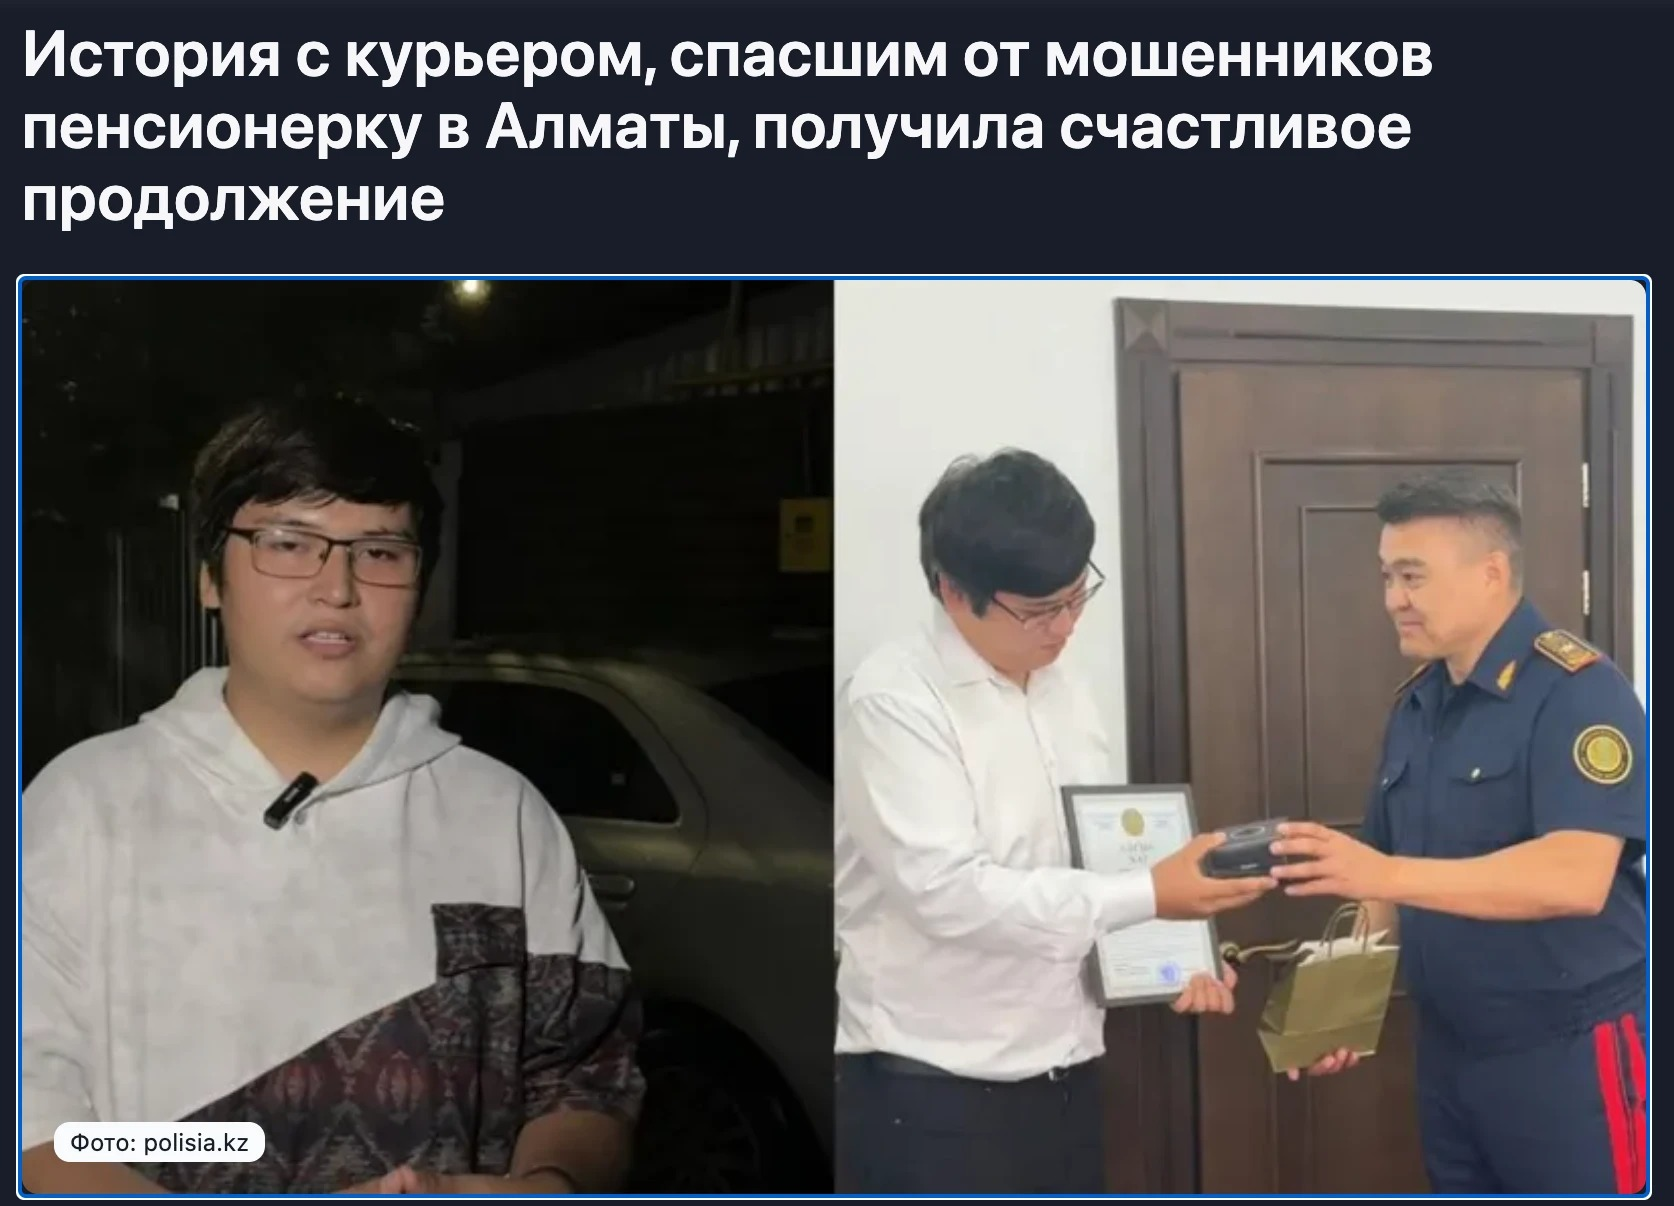
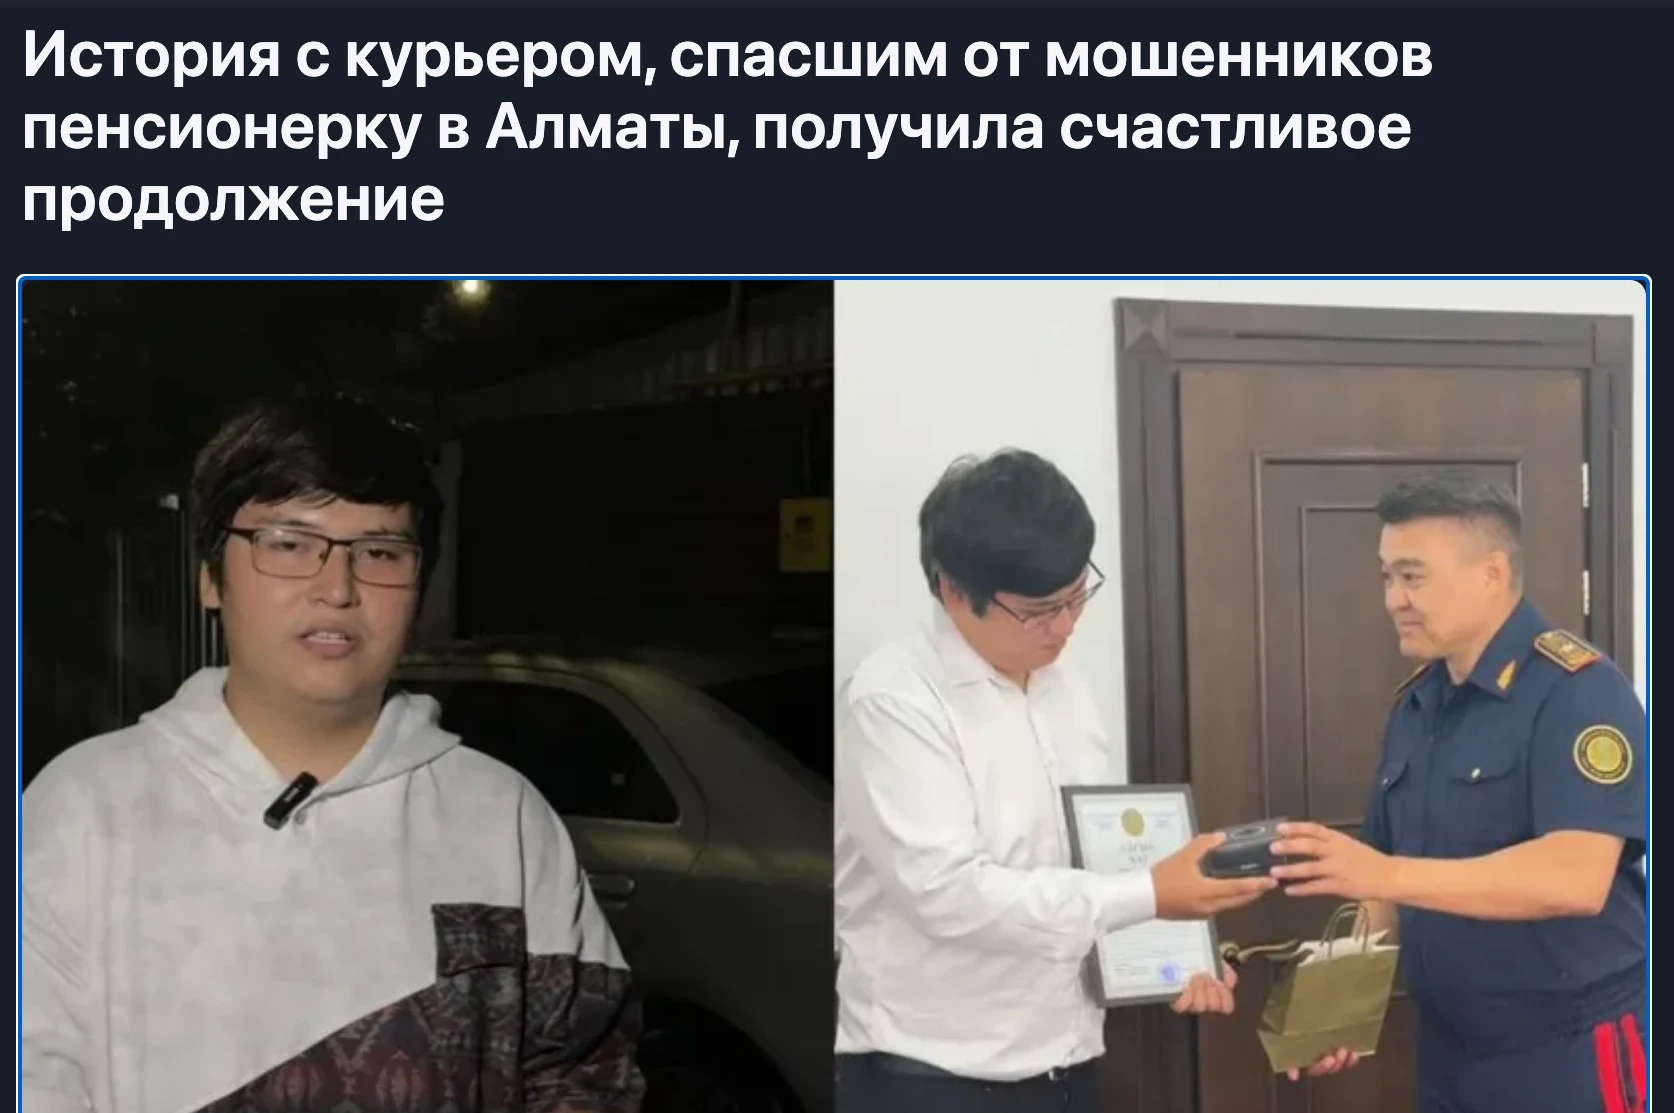
Courier heroes ep01 v7: short hook flash, stronger phone push-in, courier nod, final layout with bigger mascot and follow button, hero caption
Claude-Session: https://claude.ai/code/session_015PP6DdKJ123PbBgShdbRym

diff --git a/projects/courier-heroes/ep01/hyperframes/index.html b/projects/courier-heroes/ep01/hyperframes/index.html
@@ -110,17 +110,17 @@ svg{display:block;overflow:visible}
 
   <!-- S8 · the real hero + thanks -->
   <div id="s8" class="scene" style="background:var(--paper)">
-    <div id="photo" class="abs" style="left:60px;top:100px;width:960px;height:700px;background:#1B1F2A;border-radius:28px;box-shadow:0 18px 50px rgba(0,0,0,.22);padding:16px;box-sizing:border-box">
-      <div class="abs" style="left:16px;top:16px;width:928px;height:628px;border-radius:16px;overflow:hidden;background:url(assets/news1.jpg) center top/cover"></div>
-      <div class="abs" style="left:0;top:652px;width:960px;text-align:center;font-weight:500;font-size:24px;color:#B9BDC9"><span data-k="end.credit">Фото: polisia.kz · Источник: zakon.kz</span></div>
+    <div id="photo" class="abs" style="left:60px;top:100px;width:960px;height:640px;background:#1B1F2A;border-radius:28px;box-shadow:0 18px 50px rgba(0,0,0,.22);padding:16px;box-sizing:border-box">
+      <div class="abs" style="left:16px;top:16px;width:928px;height:568px;border-radius:16px;overflow:hidden;background:url(assets/news1.jpg) center top/cover"></div>
+      <div class="abs" style="left:0;top:594px;width:960px;text-align:center;font-weight:500;font-size:24px;color:#D7DAE3"><span data-k="end.credit">Фото: polisia.kz · Источник: zakon.kz</span></div>
     </div>
     <div id="real" class="abs" style="display:none;left:0;top:830px;width:1080px;text-align:center"><div class="chip" style="background:#E4DED2;color:#5E5850;font-size:28px;height:60px;line-height:60px"><span data-k="end.cap">Нартай Есимханов, курьер</span> · <span data-k="end.real">реальная история</span></div></div>
-    <div id="thanks" class="card" style="left:90px;top:826px;width:900px;height:104px;display:flex;align-items:center;justify-content:center;gap:26px;background:var(--ink);color:#fff">
+    <div id="thanks" class="card" style="left:90px;top:766px;width:900px;height:104px;display:flex;align-items:center;justify-content:center;gap:26px;background:var(--ink);color:#fff">
       <div style="font-weight:800;font-size:50px;white-space:nowrap"><span data-k="end.thanks">Спасибо таким курьерам!</span></div>
     </div>
-    <div id="rubric" class="abs" style="left:0;top:946px;width:1080px;display:flex;justify-content:center;align-items:center;gap:14px;font-weight:800;font-size:30px;color:#5E5850"><img src="assets/ge_mark.svg" style="width:44px;height:44px"/><span>Рубрика «Курьер — батыр» · Green Express</span></div>
-    <div id="note8" class="abs" style="left:0;top:996px;width:1080px;text-align:center;font-weight:800;font-size:27px;color:#4A443C">Нартай — не сотрудник Green Express. Мы гордимся такими курьерами</div>
-    <div id="follow" class="abs" style="left:0;top:1046px;width:1080px;text-align:center"><div class="chip" style="background:var(--coral);color:#fff;font-size:30px;padding:0 26px">🔔 <span data-k="end.follow">Подпишись: больше историй о курьерах-героях</span></div></div>
+    <div id="rubric" class="abs" style="left:0;top:886px;width:1080px;display:flex;justify-content:center;align-items:center;gap:14px;font-weight:800;font-size:30px;color:#5E5850"><img src="assets/ge_mark.svg" style="width:44px;height:44px"/><span>Рубрика «Курьер — батыр» · Green Express</span></div>
+    <div id="note8" class="abs" style="left:0;top:936px;width:1080px;text-align:center;font-weight:800;font-size:27px;color:#4A443C">Нартай — не сотрудник Green Express. Мы гордимся такими курьерами</div>
+    <div id="follow" class="abs" style="left:0;top:988px;width:1080px;text-align:center"><div class="chip" style="background:var(--coral);color:#fff;font-size:34px;height:90px;line-height:90px;border-radius:45px;padding:0 30px">🔔 <span data-k="end.follow">Подпишись: больше историй о курьерах-героях</span></div></div>
     <svg id="s8fg" class="abs" style="left:0;top:0" width="1080" height="1920"></svg>
   </div>
 
@@ -256,7 +256,7 @@ el($('#s7fg'),`<g id="ring7"><circle r="60" fill="none" stroke="#FFFFFF" stroke-
   <g id="no7"><circle r="70" fill="#FF3B30"/><path d="M-28 -28 L28 28 M28 -28 L-28 28" stroke="#fff" stroke-width="16" stroke-linecap="round"/></g>`);
 gsap.set('#ring7',{x:740,y:1000}); gsap.set('#no7',{x:880,y:820,scale:0});
 // S8 · hero peeks next to the real photo
-place($('#s8fg'),mascot({id:'c8',...HERO,act:'wave',face:'happy'}),'c8',540,1440,.46);
+place($('#s8fg'),mascot({id:'c8',...HERO,act:'wave',face:'happy'}),'c8',540,1415,.5);
 
 // headlines wider than the safe area shrink to fit
 const tw=e=>{let l=1e9,r=-1e9;e.querySelectorAll('span').forEach(sp=>{const b=sp.getBoundingClientRect();if(b.width){l=Math.min(l,b.left);r=Math.max(r,b.right);}});return r>l?r-l:0;};
@@ -286,9 +286,9 @@ const camS1=(sc,px,py,sx,sy)=>({scale:sc,x:sx-px*sc,y:sy-py*sc,transformOrigin:'
 gsap.set('#cam1',camS1(2.4,505,1380,540,1180));
 tl.to('#cam1',{...camS1(2.55,505,1380,540,1180),duration:.85,ease:'sine.out'},0);
 tl.to('#cam1',{...camS1(1.45,555,1300,540,1140),duration:.6,ease:'power3.inOut'},.85);
-tl.fromTo('#flash',{opacity:.9},{opacity:0,duration:.35,ease:'power2.out',immediateRender:false},.16);
+tl.fromTo('#flash',{opacity:.75},{opacity:0,duration:.1,ease:'power1.out',immediateRender:false},.16);
 tl.to('#s1',{x:18,y:-8,duration:.035,yoyo:true,repeat:7,ease:'none'},.16);
-tl.fromTo('#amt',{scale:1.6},{scale:1,transformOrigin:'50% 60%',duration:.4,ease:'back.out(3)',immediateRender:false},.16);
+tl.fromTo('#amt',{scale:1.45},{scale:1,transformOrigin:'50% 60%',duration:.35,ease:'back.out(3)',immediateRender:false},.18);
 tl.fromTo('#pk1-cash',{y:0},{y:-22,duration:.18,yoyo:true,repeat:3,ease:'sine.inOut',immediateRender:false},.1);
 tl.from('#punch',{yPercent:120,duration:.4,ease:E.back},1.05);
 // idle breathing so nobody freezes
@@ -315,7 +315,7 @@ reveal(['#t2a','#t2b'],ST[1]+.1);
 gsap.set('#phone2',{scale:1.1,transformOrigin:'50% 0%'});
 tl.from('#phone2',{y:300,opacity:0,duration:.45,ease:E.o3},ST[1]+.15);
 tl.to('#phone2',{x:'+=5',duration:.04,yoyo:true,repeat:19,ease:'none'},ST[1]+.5);
-tl.to('#phone2',{scale:1.18,duration:2.6,ease:'sine.inOut'},ST[1]+1.2);
+tl.to('#phone2',{scale:1.26,duration:3.0,ease:'sine.inOut'},ST[1]+.7);
 tl.to('#caller',{scaleY:1.06,transformOrigin:'50% 100%',duration:.12,yoyo:true,repeat:15,ease:'sine.inOut'},ST[1]+.8);
 tl.to('#phone2',{rotation:2.5,duration:.06,yoyo:true,repeat:13,ease:'none'},ST[1]+.5);
 tl.to('#btnYes2',{scale:1.15,transformOrigin:'50% 50%',duration:.3,yoyo:true,repeat:3,ease:'sine.inOut'},ST[1]+.5);
@@ -368,7 +368,7 @@ reveal(['#t5a','#t5b'],ST[4]+.1);
 tl.from('#call102',{scale:0,transformOrigin:'50% 50%',duration:.35,ease:E.b2},ST[4]+.2);
 tl.to('#call102',{scale:1.1,transformOrigin:'50% 50%',duration:.2,yoyo:true,repeat:3,ease:'sine.inOut'},ST[4]+.6);
 tl.from(['#p5-pos','#g5-pos'],{y:'+=500',duration:.45,ease:E.o3,stagger:.1},ST[4]+.3);
-tl.to('#pk5-pos',{x:790,duration:.55,ease:'power1.inOut'},ST[4]+1.5); tl.to('#pk5-pos',{y:1210,duration:.27,ease:'power2.out',yoyo:true,repeat:1},ST[4]+1.5); tl.to('#c5-sq',{rotation:5,transformOrigin:'50% 100%',duration:.18,yoyo:true,repeat:1},ST[4]+2.2);
+tl.to('#pk5-pos',{x:790,duration:.55,ease:'power1.inOut'},ST[4]+1.5); tl.to('#pk5-pos',{y:1210,duration:.27,ease:'power2.out',yoyo:true,repeat:1},ST[4]+1.5); tl.to('#c5-sq',{rotation:-7,transformOrigin:'50% 100%',duration:.15,yoyo:true,repeat:3,ease:'sine.inOut'},ST[4]+2.0);
 tl.to('#g5-sq',{scaleY:.9,scaleX:1.06,transformOrigin:'50% 100%',duration:.12,yoyo:true,repeat:1},ST[4]+2.05); hop('g5',ST[4]+2.3,50); face('g5','happy',ST[4]+1.75); hop('p5',ST[4]+2.25,35); blink('p5',ST[4]+2.9);
 tl.to('.h5',{opacity:1,y:-60,duration:.6,stagger:.1,ease:'power2.out'},ST[4]+2.2);
 pushUp('#s5','#s6',ST[5]-.05);
@@ -395,8 +395,8 @@ pushUp('#s7','#s8',ST[7]-.05);
 
 // S8 (37.3–42.8) — the real hero, thanks, follow
 tl.from('#photo',{y:200,rotation:-4,opacity:0,duration:.55,ease:E.back},ST[7]+.1);
-tl.from('#c8-pos',{y:'+=420',duration:.45,ease:E.back},ST[7]+.6); tl.to('#photo',{scale:1.03,transformOrigin:'50% 50%',duration:5,ease:'sine.inOut'},ST[7]+.6); tl.from('#note8',{opacity:0,duration:.4},ST[7]+.9); tl.to('#wm',{opacity:0,duration:.2},ST[7]-.1); tl.from('#rubric',{opacity:0,y:20,duration:.4},ST[7]+.5);
-tl.to('#c8-arm',{rotation:-24,transformOrigin:'30% 90%',duration:.25,yoyo:true,repeat:15,ease:'sine.inOut'},ST[7]+1.0); tl.to('#c8-sq',{scaleY:1.03,transformOrigin:'50% 100%',duration:.5,yoyo:true,repeat:7,ease:'sine.inOut'},ST[7]+1.0);
+tl.from('#c8-sq',{scale:0,transformOrigin:'50% 100%',duration:.4,ease:E.b2},ST[7]+.45); tl.to('#photo',{scale:1.03,transformOrigin:'50% 50%',duration:5,ease:'sine.inOut'},ST[7]+.6); tl.from('#note8',{opacity:0,duration:.4},ST[7]+.9); tl.to('#wm',{opacity:0,duration:.2},ST[7]-.1); tl.from('#rubric',{opacity:0,y:20,duration:.4},ST[7]+.5);
+tl.to('#c8-arm',{rotation:-26,transformOrigin:'30% 90%',duration:.4,yoyo:true,repeat:9,ease:'sine.inOut'},ST[7]+.9); hop('c8',ST[7]+4.9,40); tl.to('#c8-sq',{scaleY:1.03,transformOrigin:'50% 100%',duration:.5,yoyo:true,repeat:7,ease:'sine.inOut'},ST[7]+1.0);
 tl.from('#real',{opacity:0,duration:.4},ST[7]+.8);
 tl.from('#thanks',{y:80,opacity:0,duration:.45,ease:E.back},ST[7]+.2);
 tl.from('#follow',{scale:0,transformOrigin:'50% 50%',duration:.45,ease:E.b2},ST[7]+1.9);

diff --git a/projects/courier-heroes/ep01/hyperframes/content.js b/projects/courier-heroes/ep01/hyperframes/content.js
@@ -24,7 +24,7 @@ window.CONTENT = {
   "tip.l2": "деньги через курьера",
   "tip.l3": "Сомневаетесь? Звоните 102",
   "end.cap": "Нартай Есимханов, курьер",
-  "end.credit": "Фото: polisia.kz · Источник: zakon.kz",
+  "end.credit": "На фото: курьер Нартай Есимханов · Фото: polisia.kz · zakon.kz",
   "end.real": "реальная история",
   "end.thanks": "Спасибо таким курьерам!",
   "end.follow": "Подпишитесь: больше историй о курьерах-героях",
